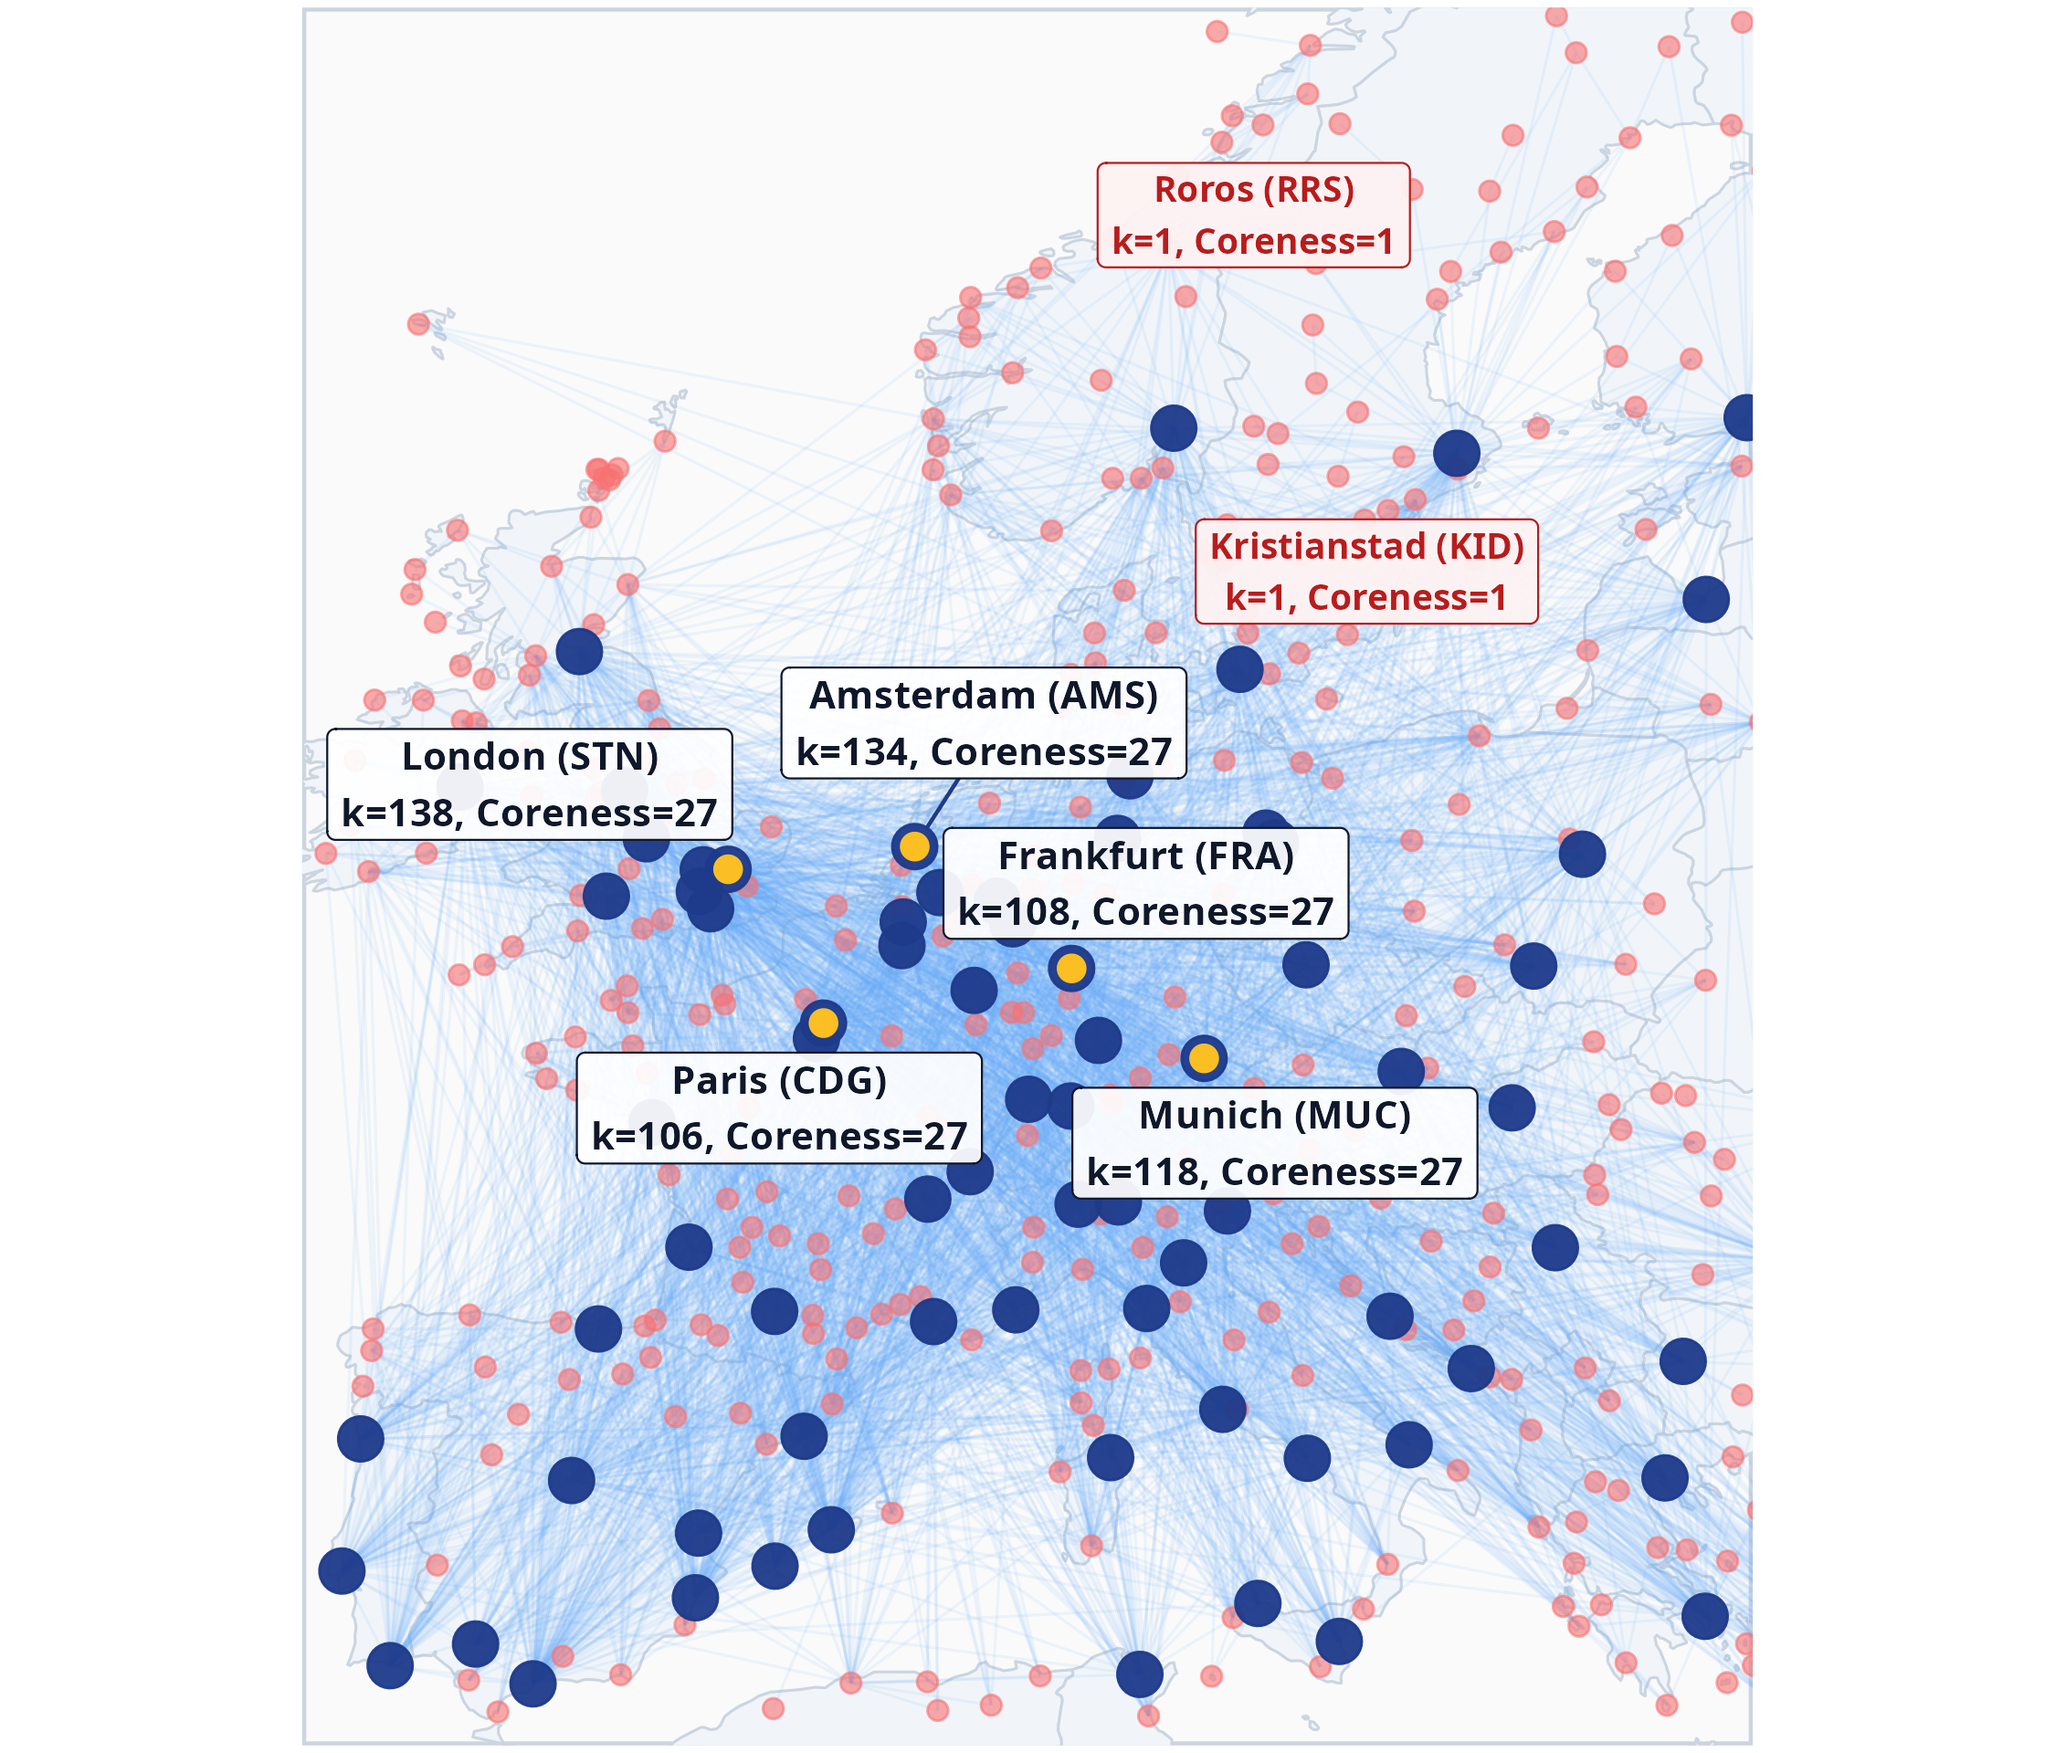
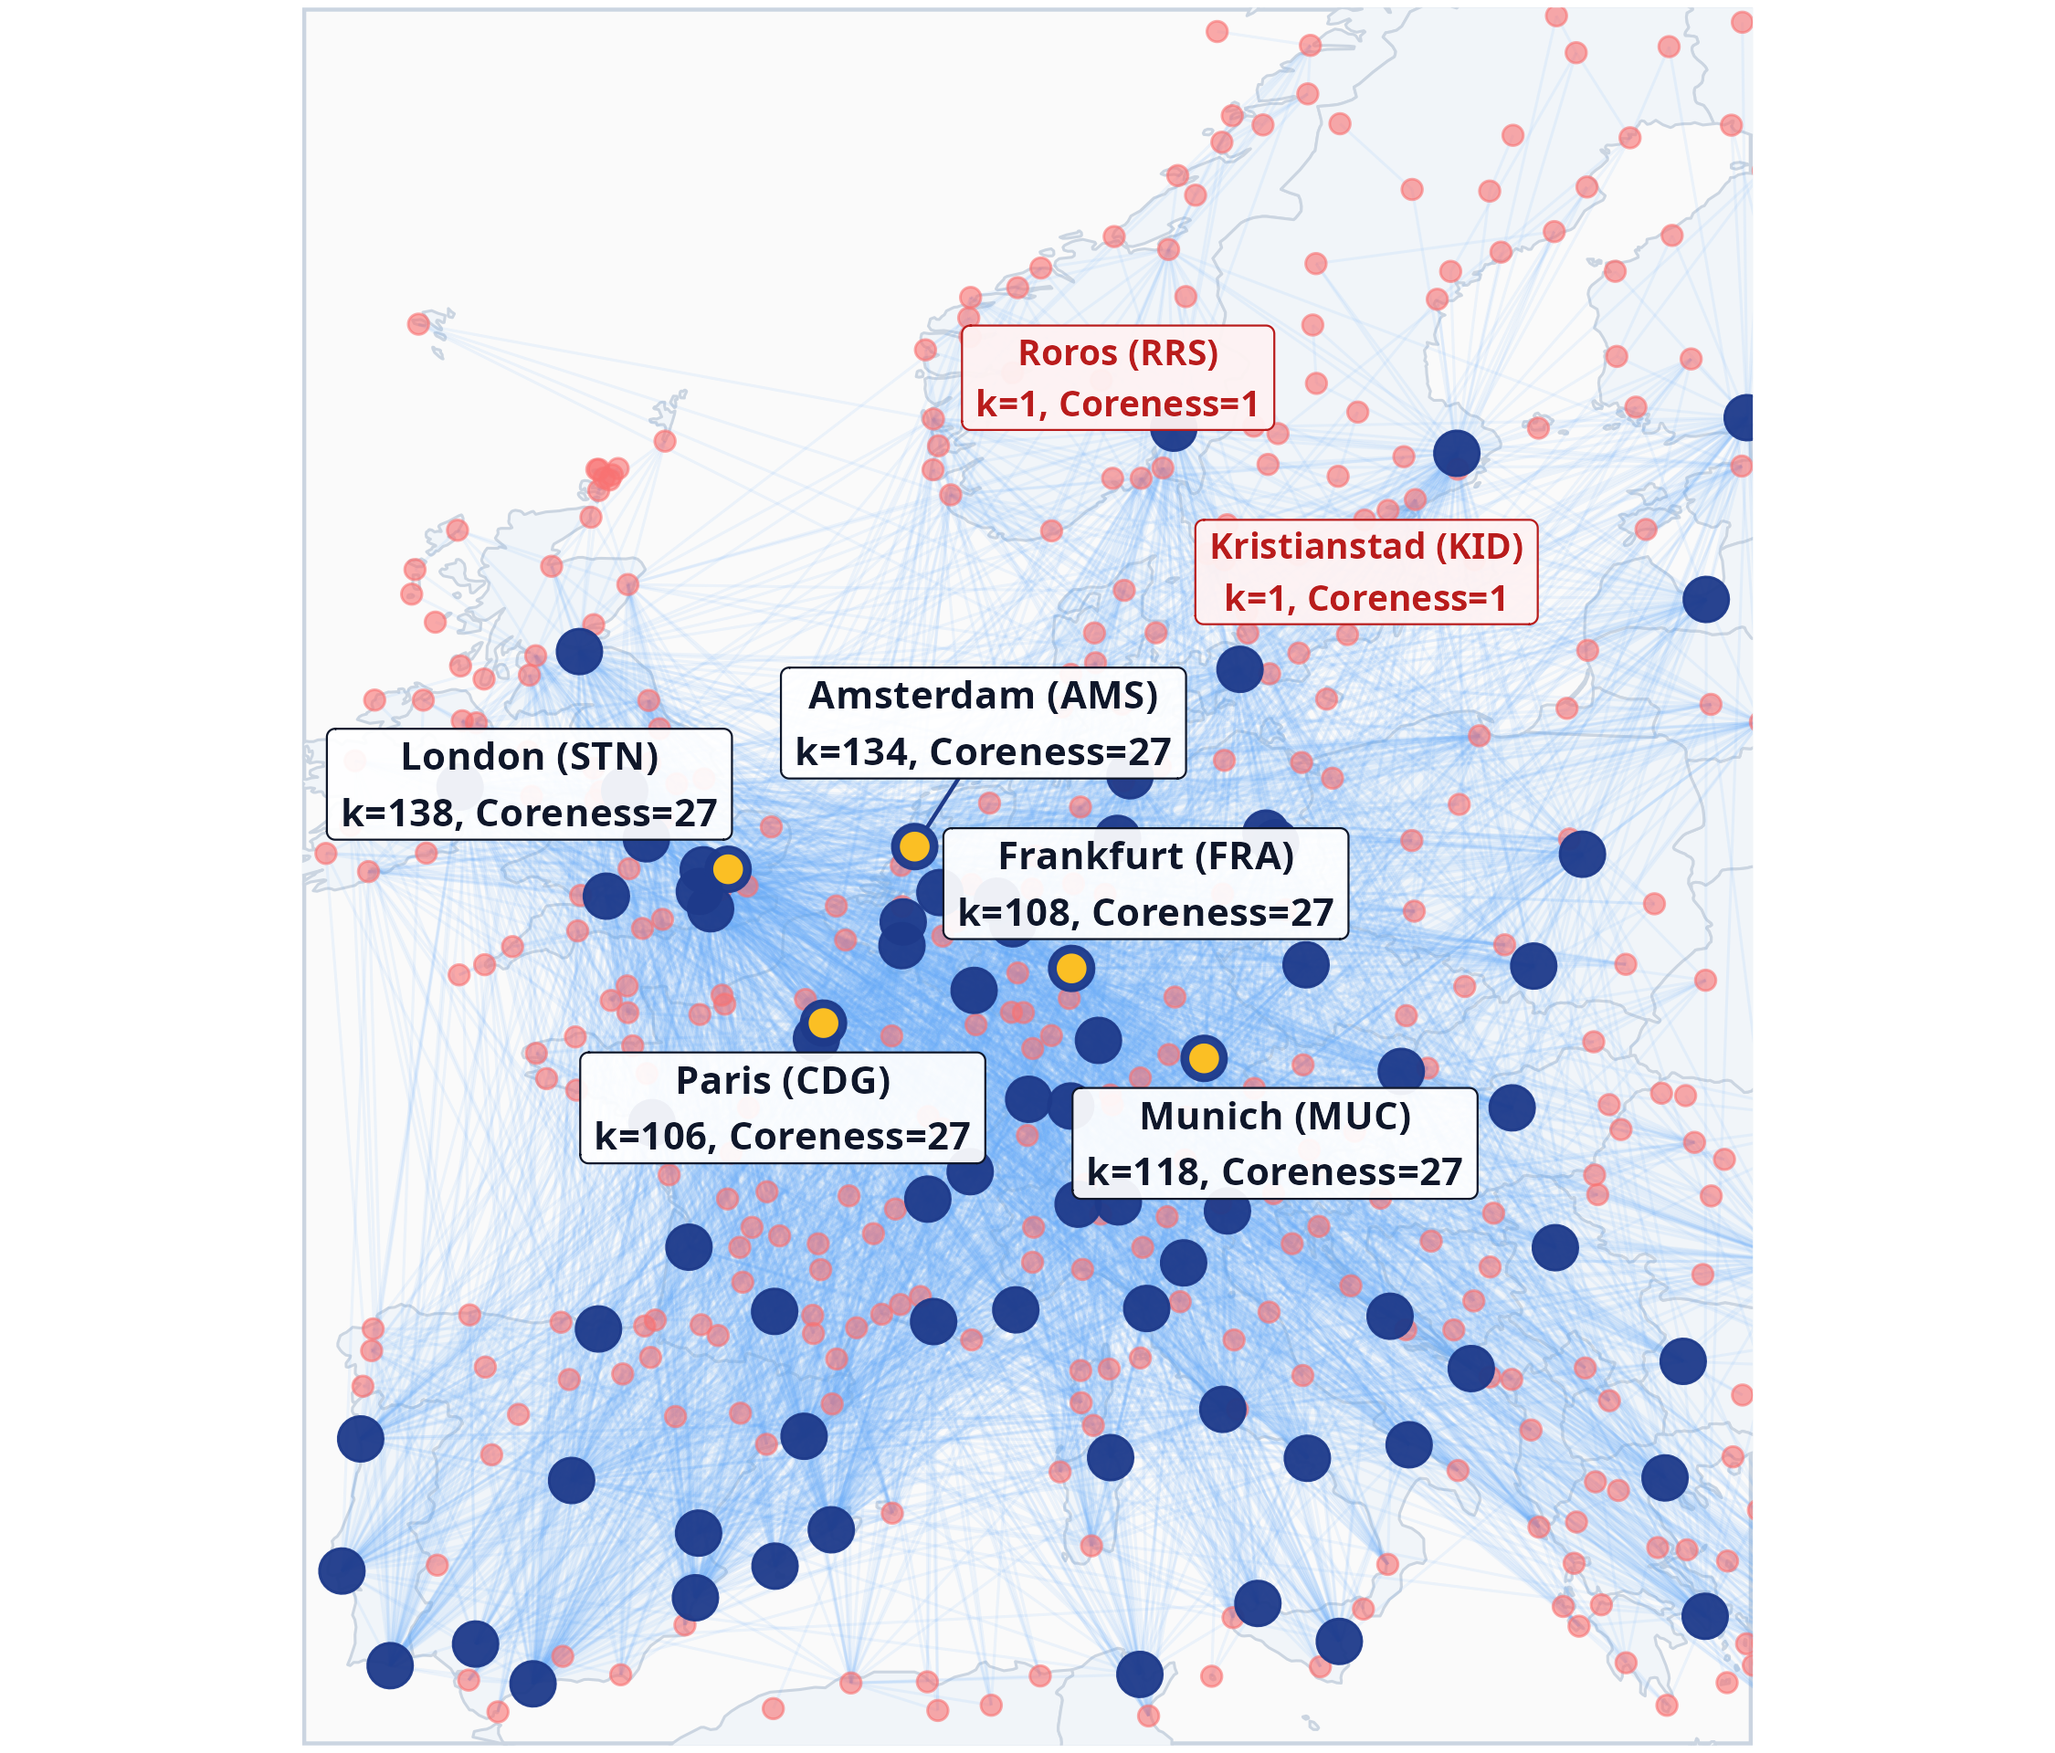
feat: in-slide visual knockout on Slide 5 showing spoke loss vs hub collapse and streamlined narrative into climate data

diff --git a/docs/index.html b/docs/index.html
@@ -254,6 +254,16 @@
 <p><img data-src="images/airport_step4_coreness.png" class="fragment fade-in quarto-figure quarto-figure-center" data-fragment-index="4" height="485"></p>
 </figure>
 </div>
+<div class="quarto-figure quarto-figure-center">
+<figure>
+<p><img data-src="images/airport_step5_spoke.png" class="fragment fade-in quarto-figure quarto-figure-center" data-fragment-index="8" height="485"></p>
+</figure>
+</div>
+<div class="quarto-figure quarto-figure-center">
+<figure>
+<p><img data-src="images/airport_step6_hub.png" class="fragment fade-in quarto-figure quarto-figure-center" data-fragment-index="9" height="485"></p>
+</figure>
+</div>
 </div>
 </div><div class="column" style="width:49.5%;">
 <div class="fragment" data-fragment-index="5" style="text-align: center; font-weight: bold; color: #1E3A8A; font-size: 21px; margin-bottom: 4px;">
@@ -275,48 +285,31 @@
 <p><img data-src="images/plant_step4_coreness.png" class="fragment fade-in quarto-figure quarto-figure-center" data-fragment-index="7" height="485"></p>
 </figure>
 </div>
+<div class="quarto-figure quarto-figure-center">
+<figure>
+<p><img data-src="images/plant_step5_spoke.png" class="fragment fade-in quarto-figure quarto-figure-center" data-fragment-index="8" height="485"></p>
+</figure>
+</div>
+<div class="quarto-figure quarto-figure-center">
+<figure>
+<p><img data-src="images/plant_step6_hub.png" class="fragment fade-in quarto-figure quarto-figure-center" data-fragment-index="9" height="485"></p>
+</figure>
+</div>
 </div>
 </div></div>
-<div class="fragment" data-fragment-index="7" style="background-color: #F0F4FA; border-left: 5px solid #1D2D6B; padding: 5px 14px; border-radius: 6px; font-size: 15px; margin-top: 4px; line-height: 1.32; text-align: left;">
+<div class="r-stack">
+<div class="fragment fade-in-then-out" data-fragment-index="7" style="width: 100%; background-color: #F0F4FA; border-left: 5px solid #1D2D6B; padding: 5px 14px; border-radius: 6px; font-size: 15px; margin-top: 4px; line-height: 1.32; text-align: left;">
 <p><strong>Shared Topology:</strong> Replace airports with plant species, and flight routes with shared pollinators. Just <strong>6 perennial plant species</strong> act as the meadow’s “Heathrows” (<span class="math inline">\(k \approx 34, G_c &gt; 1.1\)</span>), anchoring &gt;60% of floral visitor traffic.</p>
 </div>
-<aside class="notes">
-<p>Step 0 (Title only): To understand the stability of our pollination web, let’s step outside ecology and look at an analogy from human infrastructure: the European aviation network. Step 1 (Map): Here is European airspace. Step 2 (Airports): Across Europe are 895 airports—geographically scattered, seemingly uniform. Step 3 (Routes): Add 15,000 empirical commercial flight routes—a complex topological web appears. Step 4 (Airport Coreness): Calculate coreness and degree: a tiny core of international mega-hubs (London, Amsterdam, Frankfurt, Paris) anchors continental travel, while regional airfields (Røros, Kristianstad) are peripheral spokes. Step 5 (Plant Nodes): Now look at our meadow: 57 co-flowering plant species in Handrkov. Step 6 (Plant Routes): Add empirical pollinator sharing: visitors constantly link plants together through shared service. Step 7 (Plant Coreness): The exact same architecture emerges! Just 6 core perennial species (Centaurea, Succisa, Selinum, Pimpinella, Achillea, Ranunculus) form the central routing core, while peripheral flora connect through them.</p>
-<style type="text/css">
-        span.MJX_Assistive_MathML {
-          position:absolute!important;
-          clip: rect(1px, 1px, 1px, 1px);
-          padding: 1px 0 0 0!important;
-          border: 0!important;
-          height: 1px!important;
-          width: 1px!important;
-          overflow: hidden!important;
-          display:block!important;
-      }</style></aside>
-</section>
-<section id="network-robustness-spokes-vs.-core-hubs" class="slide level2" style="margin-top: -12px; margin-bottom: 6px;">
-<h2>Network Robustness: Spokes vs.&nbsp;Core Hubs</h2>
-<div class="columns">
-<div class="column" style="width:49.5%;">
-<div class="quarto-figure quarto-figure-center">
-<figure>
-<p><img data-src="images/robustness_step1_spoke.png" class="quarto-figure quarto-figure-center" height="475"></p>
-</figure>
+<div class="fragment fade-in-then-out" data-fragment-index="8" style="width: 100%; background-color: #F0FDF4; border-left: 5px solid #15803D; padding: 5px 14px; border-radius: 6px; font-size: 15px; margin-top: 4px; line-height: 1.32; text-align: left;">
+<p><strong>Robustness to Spoke Loss:</strong> When peripheral nodes fail (<em>Røros fog / Lathyrus drought</em>), the network easily absorbs the shock (&gt;95% of routes stay intact).</p>
 </div>
-</div><div class="column" style="width:49.5%;">
-<div class="fragment" data-fragment-index="1">
-<div class="quarto-figure quarto-figure-center">
-<figure>
-<p><img data-src="images/robustness_step2_hub.png" class="quarto-figure quarto-figure-center" height="475"></p>
-</figure>
+<div class="fragment fade-in" data-fragment-index="9" style="width: 100%; background-color: #FEF2F2; border-left: 5px solid #DC2626; padding: 5px 14px; border-radius: 6px; font-size: 15px; margin-top: 4px; line-height: 1.32; text-align: left;">
+<p><strong>Catastrophic Hub Collapse:</strong> When core hubs fail (<em>Heathrow shut / Centaurea withered</em>), the entire network collapses. <strong>The 15-Year Dilemma:</strong> Did unprecedented droughts break our core hubs?</p>
 </div>
-</div>
-</div></div>
-<div class="fragment" data-fragment-index="2" style="background-color: #1D2D6B; color: white; padding: 7px 18px; border-radius: 8px; text-align: center; font-size: 18px; margin-top: 4px;">
-<p><strong>The Ecological Dilemma:</strong> In scale-free systems, hubs are the Achilles’ heel. Across 15 years, did extreme climate warming break our core hubs—or did the core hold?</p>
 </div>
 <aside class="notes">
-<p>This sets up the core tension of the talk: Network theory teaches us that scale-free / hub-and-spoke networks are remarkably robust to random failure of spokes, but catastrophically fragile to targeted attack on hubs. In Handrkov, during 15 years, we experienced unprecedented summer droughts (2015, 2018). What happened to the core? What happened to the whole community? Let’s look at the climate history of the meadow!</p>
+<p>Step 0 (Title only): To understand the stability of our pollination web, let’s step outside ecology and look at an analogy from human infrastructure: the European aviation network. Step 1 (Map): Here is European airspace. Step 2 (Airports): Across Europe are 895 airports—geographically scattered, seemingly uniform. Step 3 (Routes): Add 15,000 empirical commercial flight routes—a complex topological web appears. Step 4 (Airport Coreness): Calculate coreness: a tiny core of mega-hubs (London, Amsterdam, Frankfurt, Paris) anchors continental travel, while regional airfields (Røros, Kristianstad) are peripheral spokes. Step 5 (Plant Nodes): Now look at our meadow: 57 co-flowering plant species in Handrkov. Step 6 (Plant Routes): Add empirical pollinator sharing: visitors link plants together through shared service. Step 7 (Plant Coreness): The exact same architecture emerges! Just 6 core perennial species form the central routing core, while peripheral flora connect through them. Step 8 (Spoke Loss): What happens when nodes fail? If a spoke fails (fog in Røros, or a rare flower dries up), the network easily absorbs the shock. Step 9 (Hub Collapse): BUT if the core hubs fail (Heathrow closes, or Centaurea and Succisa wither), the entire network collapses. This is the Achilles’ heel. Now let’s see what happened during 15 years of extreme climate droughts!</p>
 <style type="text/css">
         span.MJX_Assistive_MathML {
           position:absolute!important;
